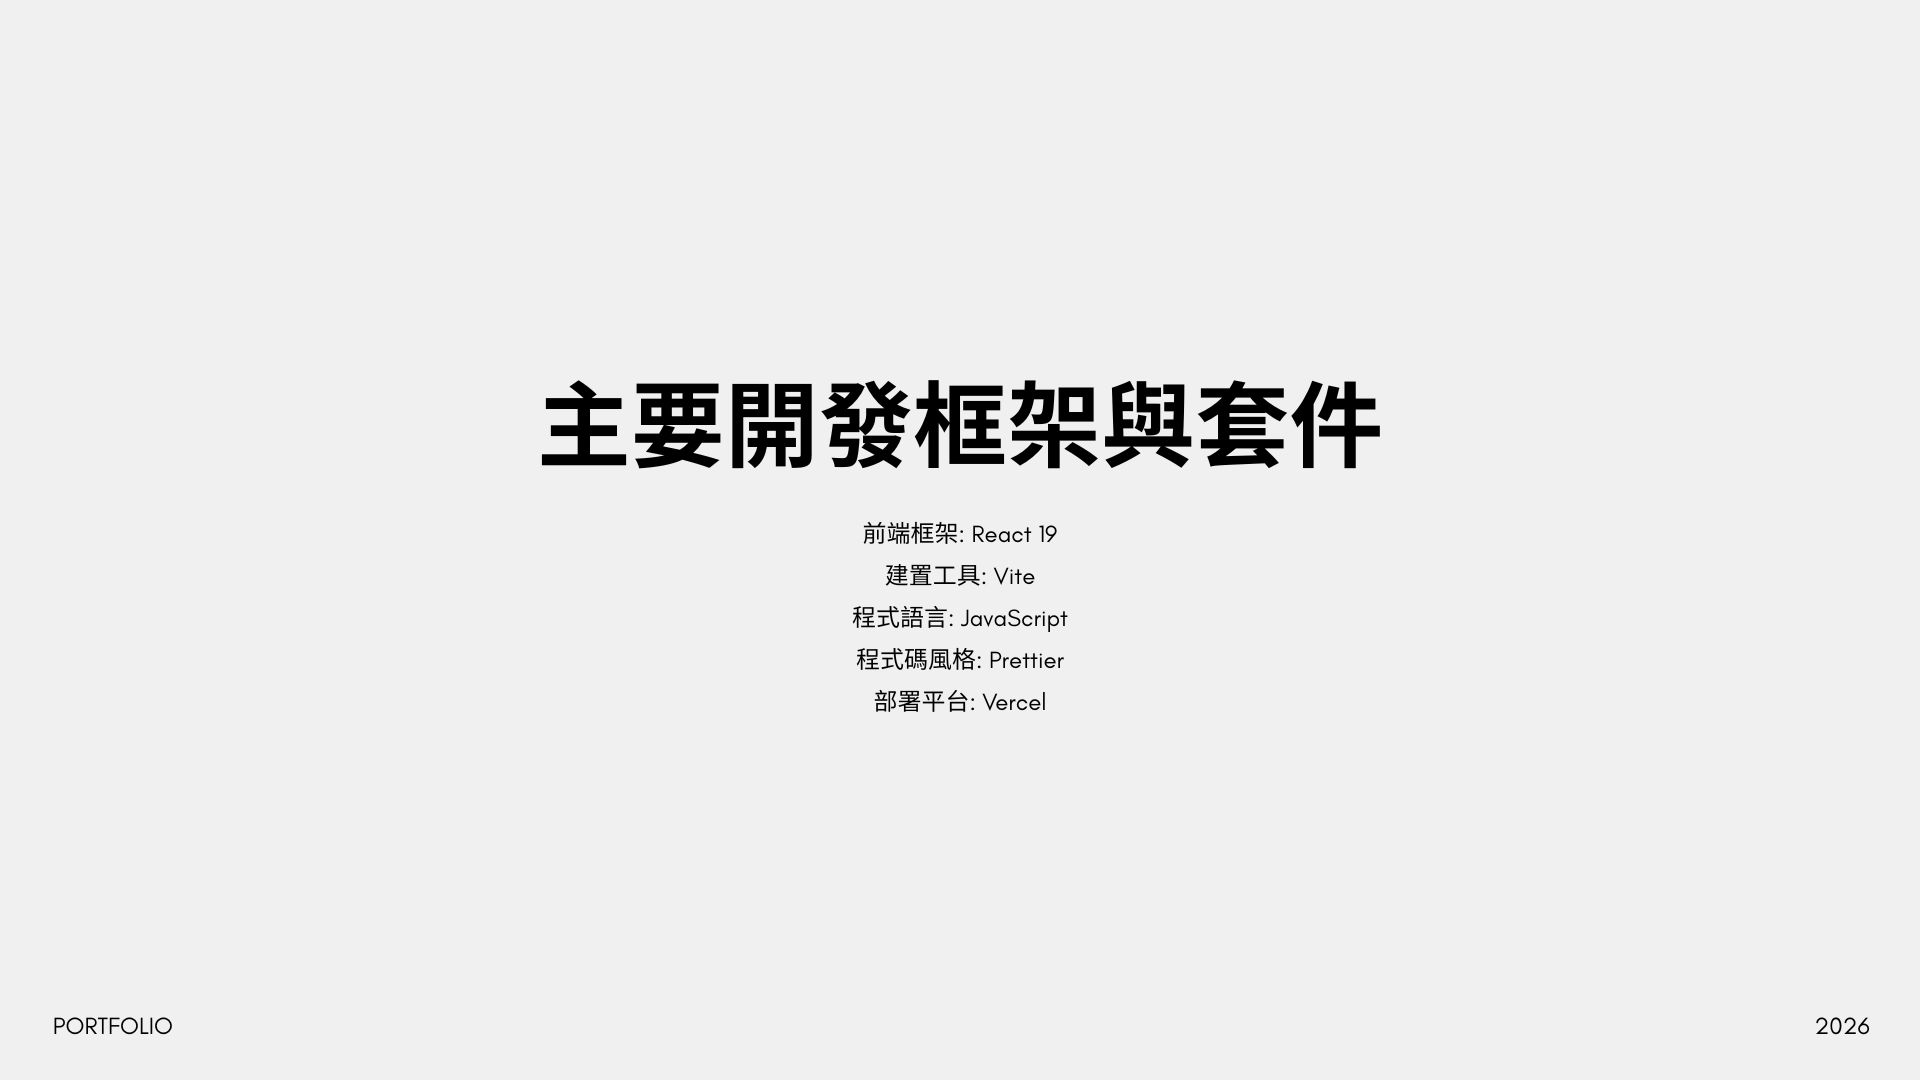
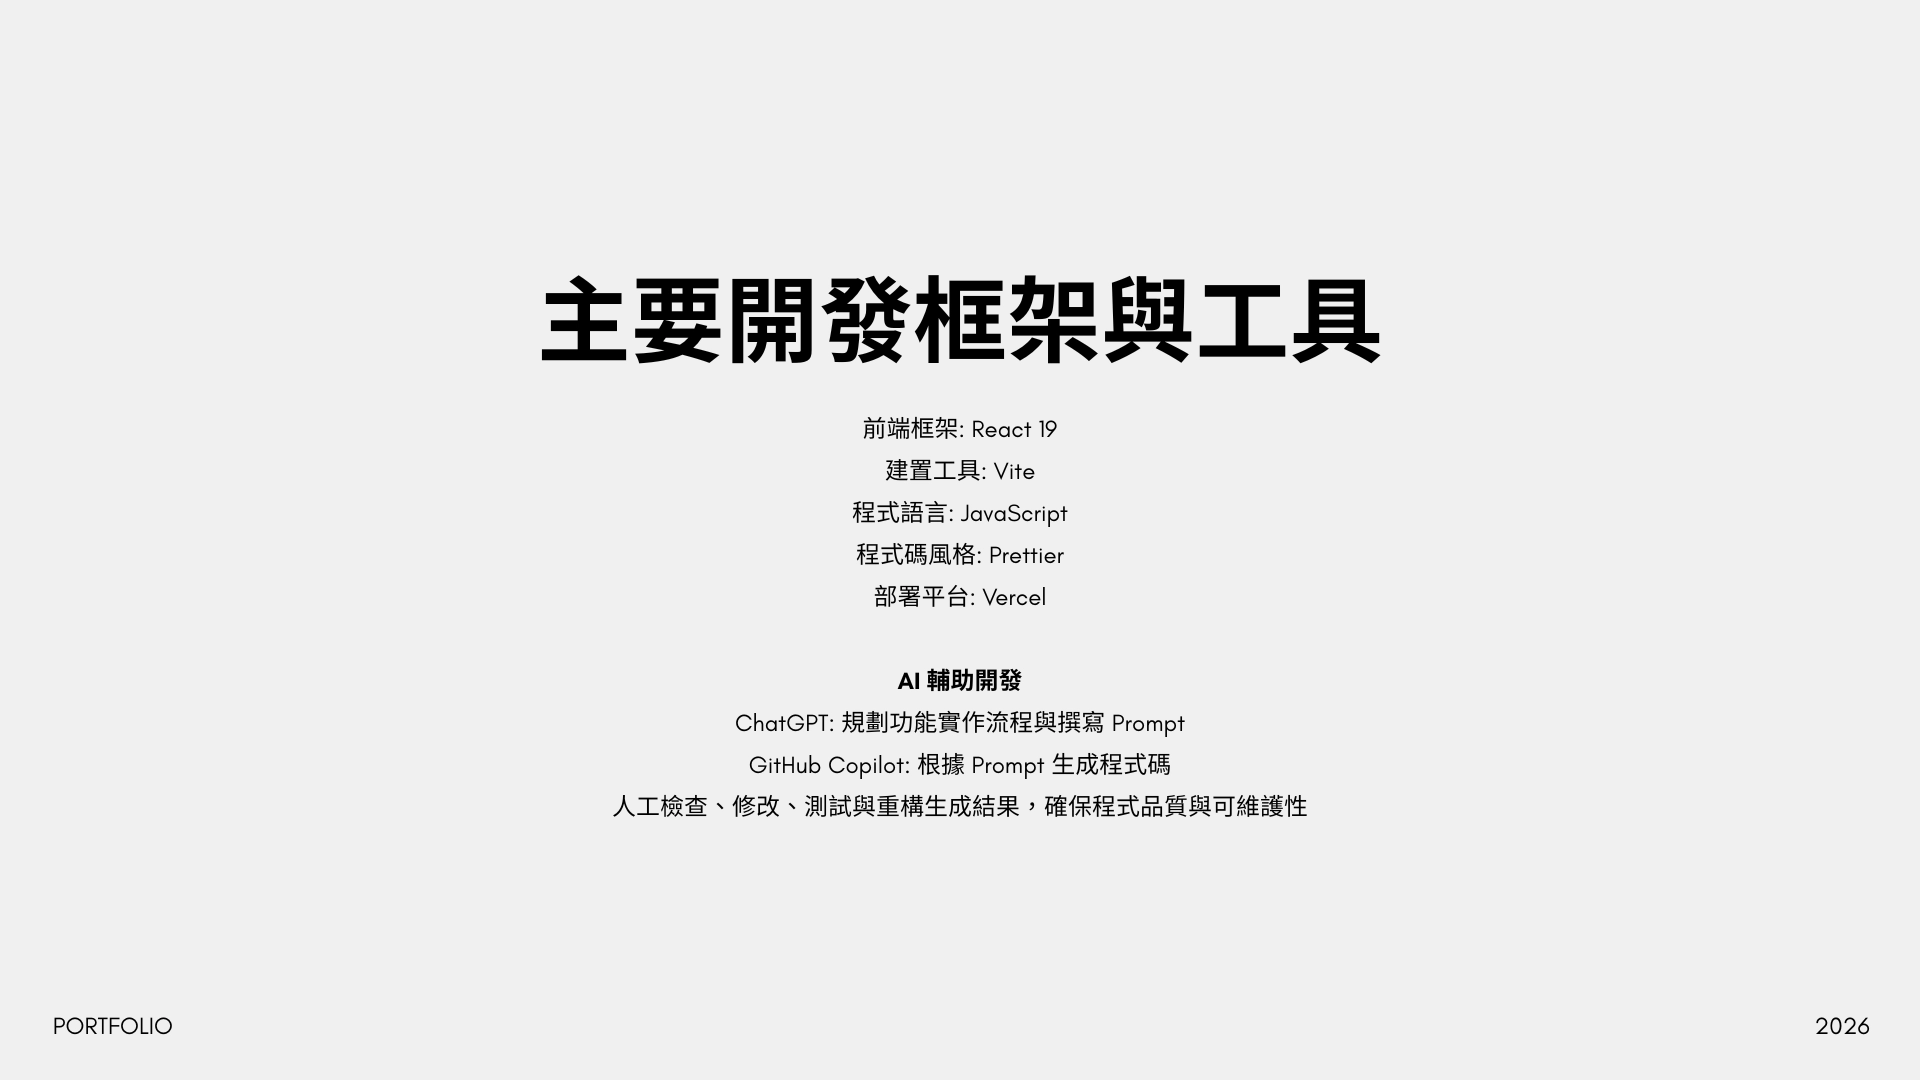
ai update

Changed region(s): [[0.2812, 0.2444, 0.7188, 0.7639]]

diff --git a/src/components/PortfolioWeb.jsx b/src/components/PortfolioWeb.jsx
@@ -146,6 +146,17 @@ export default function Web() {
                   </div>
                 </div>
               </FadeUp>
+              <FadeUp>
+                <div className="group relative aspect-video overflow-hidden rounded-3xl border border-white/10 bg-white/5">
+                  {/* 整個 scene 一起 scale */}
+                  <div className="absolute inset-0 transition duration-300 group-hover:scale-110">
+                    <img
+                      src={ppts[10]}
+                      className="h-full w-full object-cover"
+                    />
+                  </div>
+                </div>
+              </FadeUp>
 
               {/* 查看更多 */}
               <FadeUp>